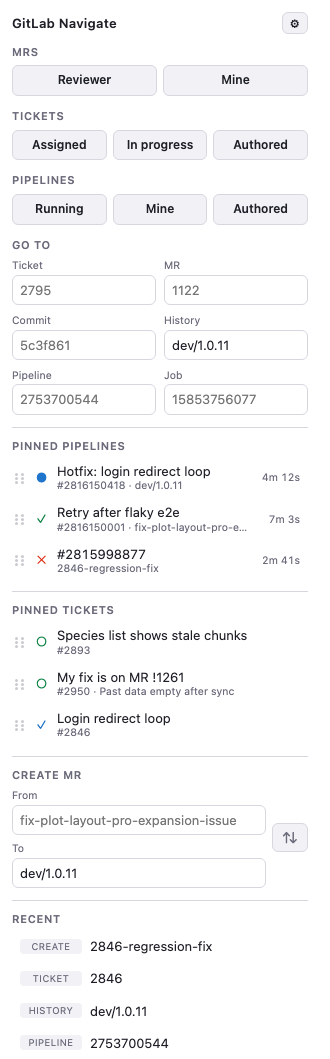
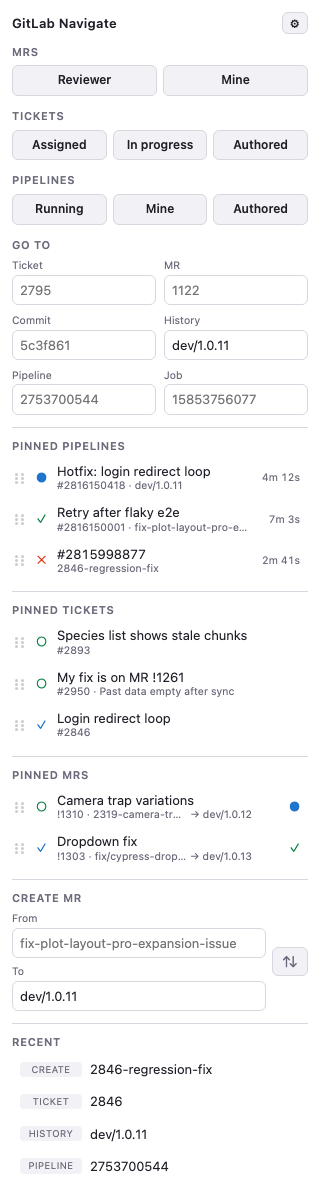
Release table notes, runner badges and pinned MRs (0.20.0)

diff --git a/README.md b/README.md
@@ -5,7 +5,7 @@ popup, paste a ticket number, MR number, commit hash, or branch name, press Ente
 
 <picture>
   <source media="(prefers-color-scheme: dark)" srcset="docs/popup-dark.png">
-  <img src="docs/popup-light.png" alt="The GitLab Navigate popup: MRs, Tickets and Pipelines button rows, a two-column Go to grid, pinned pipelines and tickets, the Create MR boxes, and a Recent list." width="330">
+  <img src="docs/popup-light.png" alt="The GitLab Navigate popup: MRs, Tickets and Pipelines button rows, a two-column Go to grid, pinned pipelines, tickets and MRs, the Create MR boxes, and a Recent list." width="330">
 </picture>
 
 The screenshots are generated from the real markup by `./tools/screenshot.sh` — see
@@ -140,13 +140,14 @@ skip); later, hover the row and click ✎. Enter or clicking away saves, Esc can
 saving an empty note removes it. Notes are stored with the pin on this machine and go
 away when you unpin.
 
-**On the pipeline page.** A pinned pipeline's note also appears in GitLab itself, after
-the big pipeline number (`#2866034605  📌 Species list old issue v2`), so you can tell
-pipelines apart without opening the popup. It updates as soon as you edit the note and
-disappears when you unpin. A small script does this; it runs only on your GitLab site's
-`…/-/pipelines/…` pages and is switched on by the popup once you've granted GitLab
-access. After updating the extension, open the popup once for notes to reappear on
-pipeline pages. It covers the GitLab site in your repo URL setting; pipelines pinned
+**On GitLab.** A pinned pipeline's note also appears in GitLab itself: after the big
+number on the pipeline's page (`#2866034605  📌 Species list old issue v2`) and after
+its number in the pipelines list, so you can tell pipelines apart without opening the
+popup. It updates as soon as you edit the note, keeps up as GitLab refreshes the list,
+and disappears when you unpin. A small script does this; it runs only on your GitLab
+site's pipeline pages (`…/-/pipelines…`) and is switched on by the popup once you've
+granted GitLab access. After updating the extension, open the popup once for notes to
+reappear on GitLab. It covers the GitLab site in your repo URL setting; pipelines pinned
 from a different GitLab site show their note in the popup only.
 
 Status is refreshed each time the popup opens. Cached values appear instantly and are
@@ -154,8 +155,9 @@ replaced when the refresh lands, so the list still reads sensibly offline.
 
 ### How it reads pipeline status
 
-Pinned pipelines and pinned tickets are the only features that talk to the GitLab API
-(`/api/v4/projects/:path/pipelines/:id` and `/api/v4/projects/:path/issues/:id`). They
+The pinned lists and the runner badges are the only features that talk to the GitLab
+API: the popup reads `/api/v4/projects/:path/pipelines/:id`, `…/issues/:id` and
+`…/merge_requests/:iid`, and the pipeline-page script reads `…/pipelines/:id/jobs`. They
 authenticate with the `_gitlab_session` cookie your browser already has, so there is
 **no token to create, and none is stored**.
 
@@ -166,8 +168,8 @@ of the extension keeps working without it. If you decline, pinning still records
 pipeline and clicking still opens it; the status and branch just stay blank until you
 grant access.
 
-The same access lets the popup switch on the pipeline-page note script, which adds the
-`scripting` permission (Chrome shows no warning for it). If you remove the access in
+The same access lets the popup switch on the pipeline-page script (notes and runner
+badges), which adds the `scripting` permission (Chrome shows no warning for it). If you remove the access in
 your browser settings, the browser stops running that script too.
 
 ## Pinned tickets
@@ -182,6 +184,15 @@ pipelines. Up to 10 tickets.
 The title comes through the same GitLab access pinned pipelines use (see [How it reads
 pipeline status](#how-it-reads-pipeline-status)). GitLab's work-item Status field ("In
 progress") is only available through its GraphQL API, so it isn't shown.
+
+## Pinned MRs
+
+Open a merge request (`…/-/merge_requests/1303`, or its Changes, Commits or Pipelines
+tab) and the popup shows **Pin this MR**. Each pinned MR shows whether it's open (○),
+merged (✓) or closed (✕), its title, `!1303 · source → target`, and on the right the
+status of its latest pipeline. Long source branches are shortened so the target stays
+visible; hover for the full names. Notes, drag-to-reorder and unpin work as for
+pipelines and tickets. Up to 10 MRs.
 
 ## Create MR
 
@@ -203,6 +214,23 @@ The last 8 places you visited are listed under **Recent** and are one click away
 Hover (or tab to) an entry to reveal a 🗑 button that removes just that one. The type
 badge sits in a fixed-width column so every value lines up at the same left edge.
 
+## Runner badges
+
+On your GitLab site's pipelines list and pipeline pages, each pipeline gets a grey badge
+naming the runner it targets, such as `perentie-runner`, next to GitLab's own `latest` /
+`branch` badges.
+
+GitLab doesn't keep the inputs a pipeline was started with, so a `RUNNER_TAG` input
+can't be read back, but it does record each job's runner tags. The badge shows the tags
+that every tagged job in the pipeline carries; untagged jobs, which run on shared
+runners, don't count. If your jobs also share a tag that isn't a runner, such as
+`cypress`, list it under **Ignore job tags** in settings and it's dropped.
+
+The page script reads the jobs with your existing GitLab login
+(`/api/v4/projects/:path/pipelines/:id/jobs`, first 100 jobs), so there's no token to
+set up. A pipeline's tags never change, so each one is fetched once and remembered (the
+newest 500 are kept). Child pipelines aren't followed.
+
 ## Swap branches on a "new merge request" page
 
 If GitLab's active tab is already on a `.../-/merge_requests/new?...` page (typically
@@ -216,7 +244,7 @@ can't break when GitLab changes their UI.
 
 ## Settings
 
-The gear button holds three fields:
+The gear button holds four fields:
 
 - **GitLab repo URL** — paste any page from the repo and everything from `/-/` onward
   is stripped, so `…/paratoo-fdcp/-/merge_requests/1122` is stored as
@@ -224,8 +252,11 @@ The gear button holds three fields:
 - **Default MR target branch** — used by the Create MR box, e.g. `dev/1.0.11`.
 - **Your GitLab username** — used by the MRs, Tickets, and Pipelines > Mine buttons,
   e.g. `nuwan-tern`.
+- **Ignore job tags** — job tags that aren't runners, left out of the
+  [runner badges](#runner-badges), e.g. `cypress`. Separate several with commas or
+  spaces; leave it empty to ignore nothing.
 
-All three are kept in `chrome.storage.sync`, so they follow your Chrome profile. In
+All four are kept in `chrome.storage.sync`, so they follow your Chrome profile. In
 Firefox the same storage follows your Firefox Account; without one signed in it behaves
 as local storage and stays on that machine. Recent history is kept in
 `chrome.storage.local`.

diff --git a/docs/superpowers/specs/2026-08-04-gitlab-navigate-design.md b/docs/superpowers/specs/2026-08-04-gitlab-navigate-design.md
@@ -38,7 +38,9 @@ gitlab-navigate/
   popup.css
   popup.js          UI wiring: events, rendering, storage calls
   pinned-list.js    one pinned list: rows, drag-to-reorder, note editing
-  content/pipeline-note.js  note beside the number on GitLab pipeline pages
+  content/shared.js          helpers shared by the GitLab page scripts
+  content/pipeline-notes.js  pinned notes on GitLab pipeline pages and the pipelines table
+  content/runner-tags.js     runner badges on GitLab pipeline pages and the pipelines table
   lib/parse.js      pure functions: reference -> URL
   lib/storage.js    chrome.storage read/write helpers
   icons/            16/32/48/128 px PNGs
@@ -46,11 +48,11 @@ gitlab-navigate/
   README.md
 ```
 
-`lib/parse.js` has no Chrome dependencies and is the only unit-tested module.
-`popup.js`, `pinned-list.js` and `content/pipeline-note.js` hold all DOM and Chrome API
-interaction. `lib/storage.js` isolates the storage keys so nothing else needs to know
-them — except the page-note script, which cannot import modules and reads
-`pinnedPipelines` directly.
+`lib/parse.js` and the pure helpers in `content/shared.js` have no Chrome dependencies
+and are the unit-tested code. `popup.js`, `pinned-list.js` and the other page scripts
+hold all DOM and Chrome API interaction. `lib/storage.js` isolates the storage keys so
+nothing else needs to know them — except the page scripts, which cannot import modules
+and read `pinnedPipelines`, `runnerTags` and `ignoredJobTags` directly.
 
 Modules load as ES modules (`<script type="module" src="popup.js">`), which MV3
 popups support.
@@ -62,8 +64,9 @@ popups support.
 Fixed-width popup (~320px). Top to bottom:
 
 1. Header row: title and the gear button (toggles the settings row).
-2. Settings row (hidden by default): base repo URL, default MR target branch, and
-   your GitLab username, each its own labelled input + Save button + error line.
+2. Settings row (hidden by default): base repo URL, default MR target branch, your
+   GitLab username, and job tags to ignore for runner badges, each its own labelled
+   input + Save button + error line.
 3. Four labelled `.group` sections, each with an `<h2>`:
    - **MRs** — the Reviewer and Mine buttons, side by side.
    - **Tickets** — the Assigned, In progress and Authored buttons, side by side.
@@ -77,9 +80,10 @@ Fixed-width popup (~320px). Top to bottom:
    would have displaced. Field labels are sentence case so they do not read as section
    headings, which are uppercase. In a grid row the error grows its own cell only,
    leaving its neighbour top-aligned.
-4. The pin button — "Pin this pipeline" or "Pin this ticket" by page type, hidden
-   unless the active tab is a pipeline or ticket page that is not already pinned —
-   then the "Pinned pipelines" list, then the "Pinned tickets" list.
+4. The pin button — "Pin this pipeline", "Pin this ticket" or "Pin this MR" by page
+   type, hidden unless the active tab is a pipeline, ticket or MR page that is not
+   already pinned — then the "Pinned pipelines", "Pinned tickets" and "Pinned MRs"
+   lists.
 5. **Create MR**, a `.group` that also carries `.divided`, giving it the same top rule
    as the lists around it: a `.from-to` grid with the From and To boxes stacked in
    column one and a ⇅ swap button spanning both rows in column two.
@@ -226,6 +230,7 @@ GitLab changes their page markup, and it stays testable without a browser.
 getBase() / setBase(url)                       // chrome.storage.sync, key "baseUrl"
 getTargetBranch() / setTargetBranch(branch)     // chrome.storage.sync, key "targetBranch"
 getUsername() / setUsername(username)          // chrome.storage.sync, key "username"
+getIgnoredJobTags() / setIgnoredJobTags(tags)  // chrome.storage.sync, key "ignoredJobTags"
 getHistory() / pushHistory(e)                   // chrome.storage.local, key "history"
 removeHistory(url)                             // chrome.storage.local, key "history"
 ```
@@ -242,7 +247,7 @@ fresh empty bucket and the settings look "cleared". Pinning the ID with a `key` 
 storage stable across reinstalls, folder moves, and machines. No code path ever calls
 `chrome.storage.*.clear()` or `.remove()`; only the named keys above are written.
 
-Base URL, target branch, and username all live in `sync` so they follow the user
+Base URL, target branch, username and ignored job tags all live in `sync` so they follow the user
 across machines; history lives in `local` because it is machine-specific noise.
 
 ### manifest.json
@@ -251,7 +256,7 @@ across machines; history lives in `local` because it is machine-specific noise.
 {
   "manifest_version": 3,
   "name": "GitLab Navigate",
-  "version": "0.19.1",
+  "version": "0.20.0",
   "key": "<base64 SPKI public key — pins the extension ID>",
   "permissions": ["storage", "activeTab", "scripting"],
   "optional_host_permissions": ["*://*/*"],
@@ -333,6 +338,15 @@ origin's `…/-/pipelines/…` pages, appends a pinned pipeline's note to the pa
 and keeps it current via `MutationObserver` and `storage.onChanged`. Full design:
 `2026-09-21-pinned-tickets-and-page-notes-design.md`.
 
+**Table notes, runner tags and pinned MRs.** MRs are a third pinned list (`pinnedMrs`)
+whose rows show state, `!iid · source → target` and the head pipeline's status. The
+registered page script is now three files — `content/shared.js`,
+`content/pipeline-notes.js` and `content/runner-tags.js` — matching `…/-/pipelines*`, so
+it also covers the pipelines list. Notes are appended inside each pinned row's pipeline
+link, and each pipeline gets a runner badge built from the tags every tagged job shares,
+minus `ignoredJobTags`. The tags come from the jobs API and are cached in `runnerTags`.
+Full design: `2026-09-22-table-notes-runner-tags-pinned-mrs-design.md`.
+
 ## Data Flow
 
 **On open:** `popup.js` reads the base URL, target branch, username, and history. If
@@ -405,7 +419,9 @@ exception message.
 
 ## Testing
 
-`bun test` over `test/parse.test.js`, covering `lib/parse.js`:
+`bun test` over `test/content-shared.test.js`, covering the pure helpers in
+`content/shared.js` (pipeline URLs from links, the shared-job-tags rule), and
+`test/parse.test.js`, covering `lib/parse.js`:
 
 - each type's happy path, including the three URLs from the original request
 - `#2795` and `!1122` prefix stripping

diff --git a/CHANGELOG.md b/CHANGELOG.md
@@ -1,5 +1,24 @@
 # Changelog
 
+## 0.20.0
+
+- **Notes in the pipelines table.** A pinned pipeline's note now also appears in
+  GitLab's pipelines list, after the pipeline number, so a page of pipelines reads at a
+  glance. It keeps up as GitLab refreshes the table.
+- **Runner badges.** Pipelines in the list and on their own page get a grey badge naming
+  the runner they target (`perentie-runner`), next to GitLab's `latest` / `branch`
+  badges. GitLab doesn't keep pipeline inputs, so the badge comes from the jobs' runner
+  tags: the tags every tagged job shares. Tags that aren't runners, such as `cypress`,
+  can be listed in the new **Ignore job tags** setting. Each pipeline's tags are fetched
+  once with your GitLab login and remembered; no token needed.
+- **Pinned MRs.** On an MR page the popup offers **Pin this MR**. Pinned MRs show open
+  (○) / merged (✓) / closed (✕), the title, `!iid · source → target`, and the latest
+  pipeline's status, refreshed each time the popup opens. Notes, drag-to-reorder and
+  unpin work as for pipelines and tickets. Up to 10 MRs.
+- The page script is now `content/shared.js`, `content/pipeline-notes.js` and
+  `content/runner-tags.js`, and runs on the pipelines list as well as pipeline pages.
+  Open the popup once after updating to switch it over.
+
 ## 0.19.1
 
 - **Popup order.** Pinned pipelines now come before Pinned tickets, and Create MR (with
